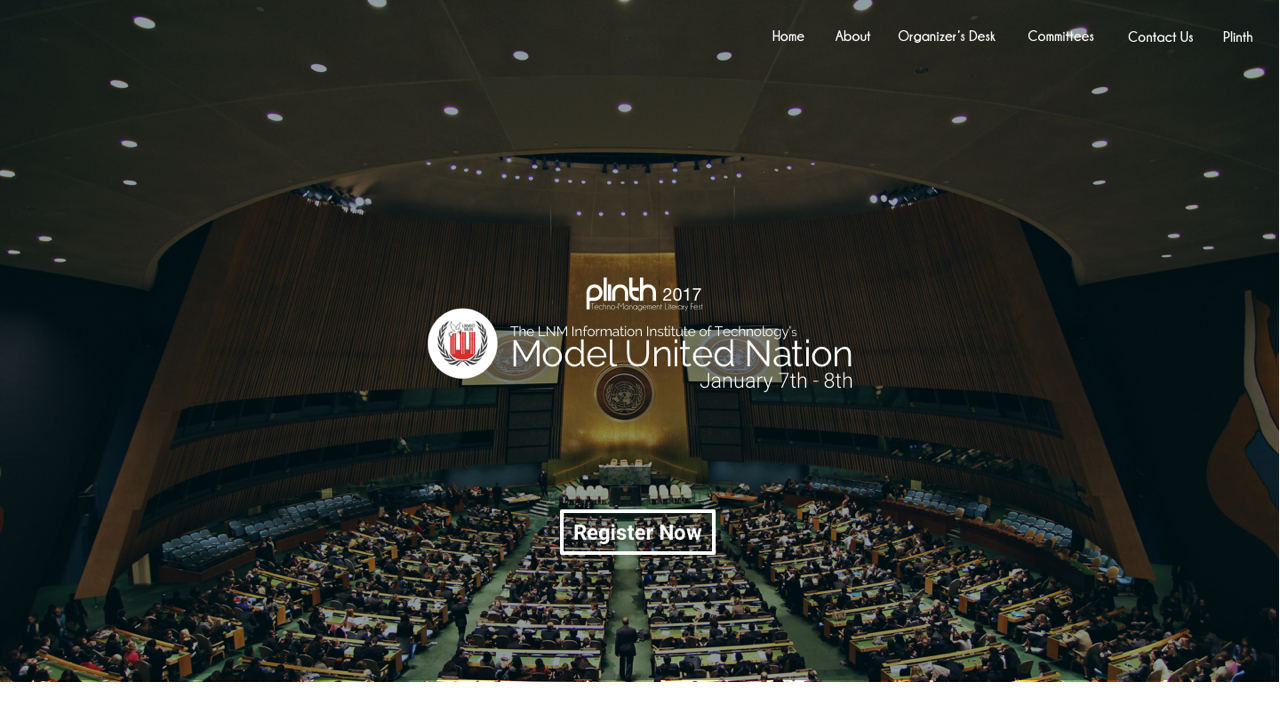
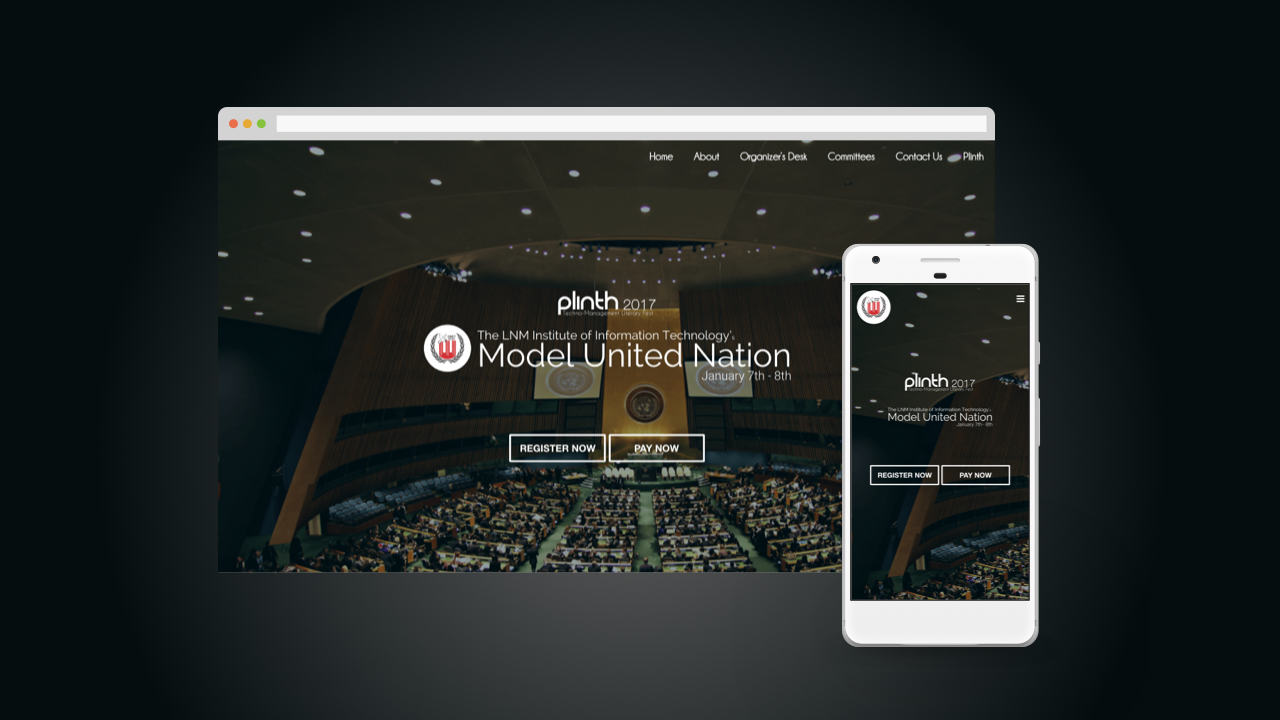
Addition:
1. Images for each project.
2. Work detail text color change on the basis of images.
3. Added Keyboard Navigation in work showcase using keyboard arrows.

diff --git a/public/js/parent/work.js b/public/js/parent/work.js
@@ -13,17 +13,34 @@ $( document ).ready(function() {
           $('footer').removeClass('footer-fixed');
         }
     }
+    var previousWork = function(){
+        if(currentWork === 0){
+            currentWork = totalWork;
+        }
+        currentWork--;
+        $('.portfolio-work').addClass('work-hidden');
+        $('.work-' + currentWork).removeClass('work-hidden');
+        footerHandler();
+    }
+
+    var nextWork = function(){
+        $('.portfolio-work').addClass('work-hidden');
+        currentWork = (currentWork + 1) % totalWork;
+        $('.work-' + currentWork).removeClass('work-hidden');
+        footerHandler();
+    }
 
     var works = [
         {
             img : "plinth2017.jpg",
             altImg : "Plinth 2017 | Home Page",
             name : "Plinth, The LNMIIT 2017",
-            stack : "jQuery • Foundation • Nodejs • Expressjs • Sketch",
+            stack : "jQuery • Foundation • Nodejs • Expressjs • MongoDB • Sketch",
             what : "Designed and Developed",
             githubLink : "#",
             websiteLink : "#",
             detailLink : "#",
+            detailTextColor : "",
         },
         {
             img : "mun2017.jpg",
@@ -34,6 +51,51 @@ $( document ).ready(function() {
             githubLink : "#",
             websiteLink : "#",
             detailLink : "#",
+            detailTextColor : "",
+        },
+        {
+            img : "timespread.jpg",
+            altImg : "Time Spread Android app Image",
+            name : "Time Spread",
+            stack : "Nodejs • Expressjs • MongoDB • Sketch",
+            what : "Designed and Developed Backend",
+            githubLink : "#",
+            websiteLink : "#",
+            detailLink : "#",
+            detailTextColor : "gray29",
+        },
+        {
+            img : "zento.jpg",
+            altImg : "Zento Gallery",
+            name : "Zento, Pure JS Gallery",
+            stack : "Vanilla JavaScript",
+            what : "Developed",
+            githubLink : "#",
+            websiteLink : "#",
+            detailLink : "#",
+            detailTextColor : "gray29",
+        },
+        {
+            img : "flash.jpg",
+            altImg : "Chatbot Flash",
+            name : "Flash - Chatbot",
+            stack : "Python • AIML • PyAMIL • Bash",
+            what : "Developed",
+            githubLink : "#",
+            websiteLink : "#",
+            detailLink : "#",
+            detailTextColor : "",
+        },
+        {
+            img : "plinth2016.jpg",
+            altImg : "Plinth 2017 | Home Page",
+            name : "Plinth, The LNMIIT 2016",
+            stack : "jQuery • Materializecss • AngularJS",
+            what : "Developed",
+            githubLink : "#",
+            websiteLink : "#",
+            detailLink : "#",
+            detailTextColor : "gray29",
         },
         {
             img : "event-graphia.jpg",
@@ -44,27 +106,19 @@ $( document ).ready(function() {
             githubLink : "#",
             websiteLink : "#",
             detailLink : "#",
+            detailTextColor : "",
         },
         {
-            img : "zento.jpg",
-            altImg : "Zento Gallery",
-            name : "Zento, Pure JS Gallery",
-            stack : "JS",
+            img : "event-graphia-dropped.jpg",
+            altImg : "Event Graphia(Uncomplete) Image",
+            name : "Event Graphia(Uncomplete)",
+            stack : "AngularJS • jQuery • Materializecss",
             what : "Designed and Developed",
             githubLink : "#",
             websiteLink : "#",
             detailLink : "#",
+            detailTextColor : "",
         },
-        {
-            img : "flash.jpg",
-            altImg : "Chatbot Flash",
-            name : "Flash - Chatbot",
-            stack : "Python • AIML • PyAMIL • Bash",
-            what : "Designed and Developed",
-            githubLink : "#",
-            websiteLink : "#",
-            detailLink : "#",
-        }
     ]
 
     var totalWork = works.length;
@@ -80,7 +134,7 @@ $( document ).ready(function() {
         + '<div class="column small-10 small-centered medium-9 card work-hidden portfolio-work work-' + i + '">'
         + '<div class="work-showcase-img-container">'
         + '<img class="work-showcase-img" src="media/parent/images/work/' + works[i].img + '" alt="' + works[i].altImg  + '" />'
-        + '<div class="work-showcase-img-detail text-center">'
+        + '<div class="work-showcase-img-detail text-center ' + works[i].detailTextColor + '">'
         + '<a class="hollow button work-showcase-img-button" href="' + works[i].detailLink + '">View Project</a>'
         + '<p class="roboto weight-medium">' + works[i].what + "</p>"
         + '<p class="roboto weight-medium">' + works[i].stack + "</p>"
@@ -109,22 +163,35 @@ $( document ).ready(function() {
     $('.work-0').removeClass('work-hidden');
     $('footer').removeClass('footer-fixed');
 
+    //navigation for work
     $('.work-nav-right').click(function(){
-        $('.portfolio-work').addClass('work-hidden');
-        currentWork = (currentWork + 1) % totalWork;
-        $('.work-' + currentWork).removeClass('work-hidden');
-        footerHandler();
+        nextWork();
     })
 
     $('.work-nav-left').click(function(){
-        if(currentWork === 0){
-            currentWork = totalWork;
-        }
-        currentWork--;
-        $('.portfolio-work').addClass('work-hidden');
-        $('.work-' + currentWork).removeClass('work-hidden');
-        footerHandler();
+        previousWork();
     })
+
+    //Navigation throgh key
+    $(document).keydown(function(e) {
+        switch(e.which) {
+            case 37: // left
+            previousWork();
+            break;
+
+            case 39: // right
+            nextWork();
+            break;
+
+            case 13: // enter
+            // nextWork();
+            break;
+
+            default: return; // exit this handler for other keys
+        }
+        e.preventDefault(); // prevent the default action (scroll / move caret)
+    });
+
 
     //hover effect on showcase
 

diff --git a/public/css/mun/mun2017.css b/public/css/mun/mun2017.css
@@ -398,10 +398,15 @@ nav{
 		font-size: 16px;
 	}
 	.mun-inline{
-		transform: scale(1);
+		transform: scale(0.7);
 	}
 	.mun-home-button{
 		margin-top: 60px;
+	}
+}
+@media screen and (max-width: 360px) {
+	.mun-inline{
+		transform: scale(0.6);
 	}
 }
 .mun-blue-button{
@@ -437,7 +442,7 @@ nav{
 
 .register .button.hollow a{
     color: #02B9EF;
-    
+
 }
 
 .register .button.hollow:hover a{

diff --git a/public/css/parent/main.css b/public/css/parent/main.css
@@ -420,6 +420,11 @@ h6{
     margin-bottom: 6px;
 }
 
+.gray29 p,.gray29 a{
+    color: #4A4A4A !important;
+    border-color: #4A4A4A !important;
+}
+
 .work-showcase-img-button{
     color: white !important;
     border: 2px solid white !important;

diff --git a/routes/index.js b/routes/index.js
@@ -19,4 +19,5 @@ router.get('/contact', function(req, res, next) {
     res.render('parent/contact')
 });
 
+
 module.exports = router;
